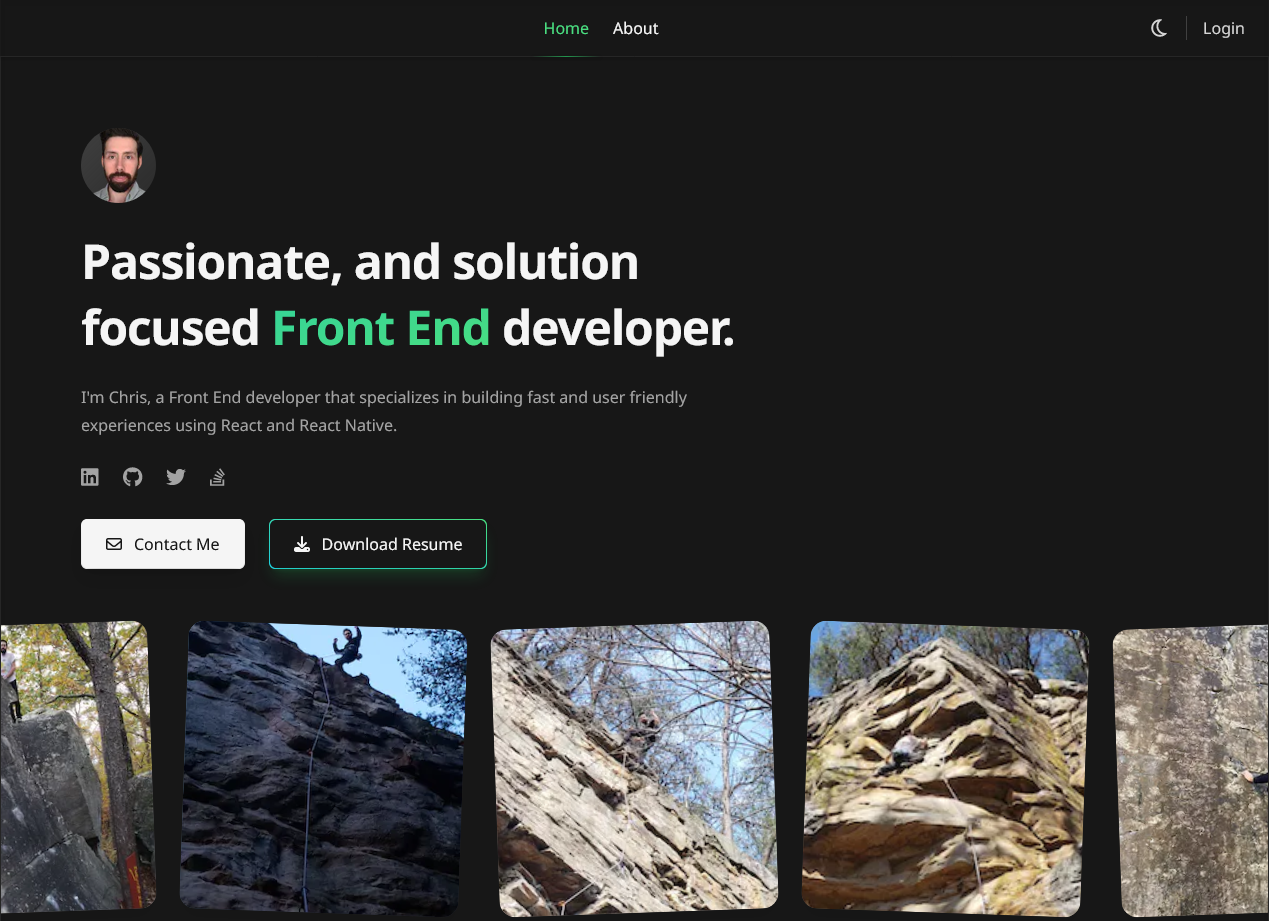
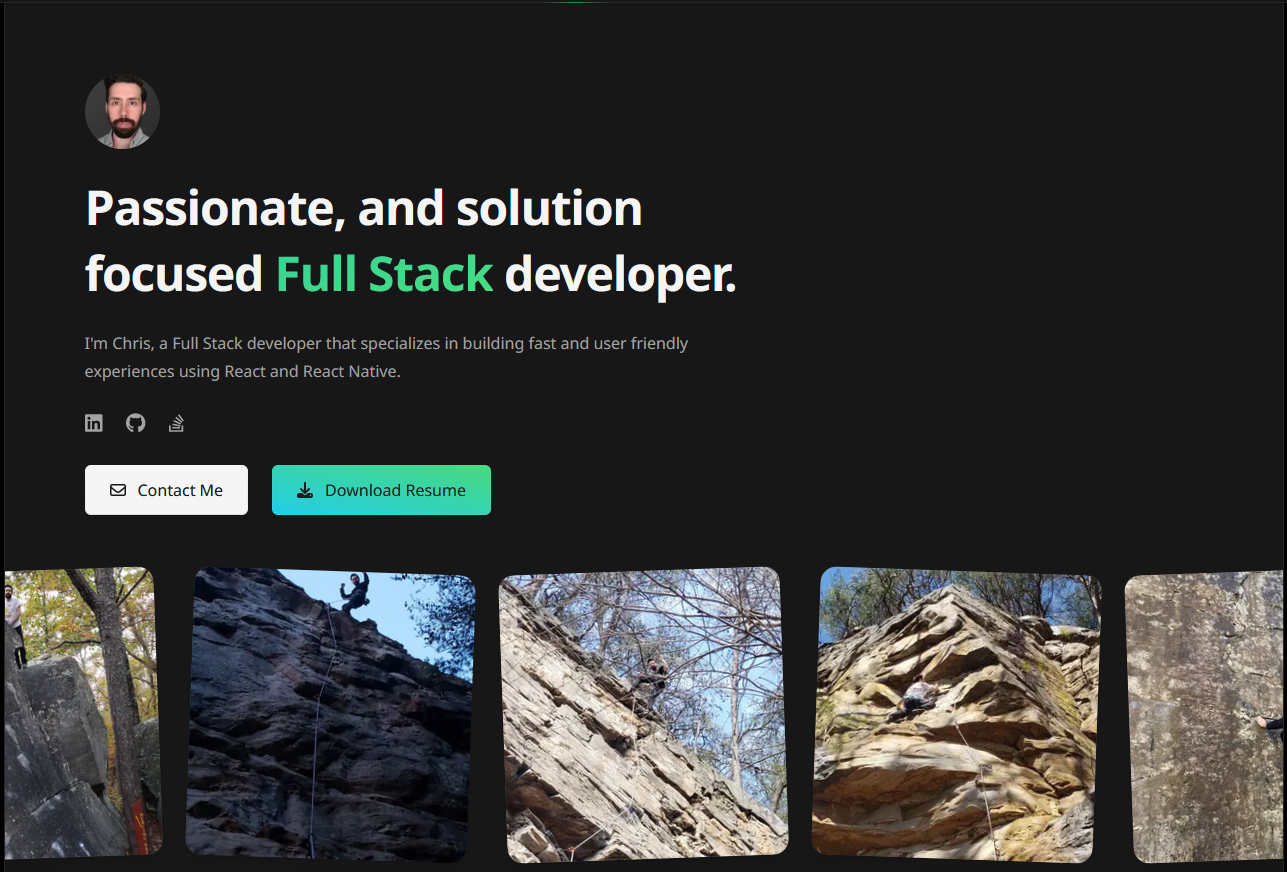
update information

diff --git a/components/home/Hero.tsx b/components/home/Hero.tsx
@@ -1,17 +1,17 @@
-import Image from "next/image";
-import Link from "next/link";
+import Image from 'next/image';
+import Link from 'next/link';
 
-import { FontAwesomeIcon } from "@fortawesome/react-fontawesome";
+import { FontAwesomeIcon } from '@fortawesome/react-fontawesome';
 import {
   faLinkedin,
   faGithub,
   faStackOverflow,
   faTwitter,
-} from "@fortawesome/free-brands-svg-icons";
-import InlineLink from "../links/InlineLink";
-import { socialLinks } from "../../assets/socialLinks";
-import { faDownload } from "@fortawesome/free-solid-svg-icons";
-import { faEnvelope } from "@fortawesome/free-regular-svg-icons";
+} from '@fortawesome/free-brands-svg-icons';
+import InlineLink from '../links/InlineLink';
+import { socialLinks } from '../../assets/socialLinks';
+import { faDownload } from '@fortawesome/free-solid-svg-icons';
+import { faEnvelope } from '@fortawesome/free-regular-svg-icons';
 
 export const Hero = () => {
   return (
@@ -21,19 +21,19 @@ export const Hero = () => {
           alt="Portiat of Chris Warren"
           width={75}
           height={75}
-          src={"/images/headshot2.png"}
+          src={'/images/headshot2.png'}
         />
       </div>
 
       <h1 className="mt-6 text-4xl font-bold tracking-tight md:text-5xl md:leading-snug">
-        Passionate, and solution focused{" "}
+        Passionate, and solution focused{' '}
         <span className="bg-gradient-to-br from-teal-500 to-green-500 bg-clip-text text-transparent dark:from-emerald-400 dark:to-green-400">
-          Front End
-        </span>{" "}
+          Full Stack
+        </span>{' '}
         developer.
       </h1>
       <p className="mt-6 text-base  leading-7 text-neutral-500 dark:text-neutral-400">
-        {`I'm Chris, a Front End developer that specializes in building fast and user friendly experiences using React and React Native.`}
+        {`I'm Chris, a Full Stack developer that specializes in building fast and user friendly experiences using React and React Native.`}
       </p>
 
       {/* connect icons */}
